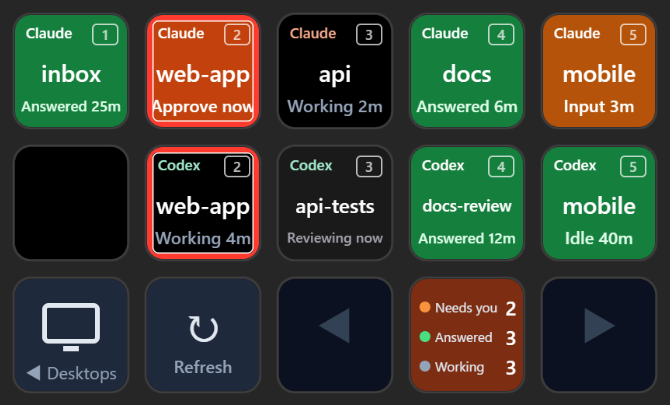
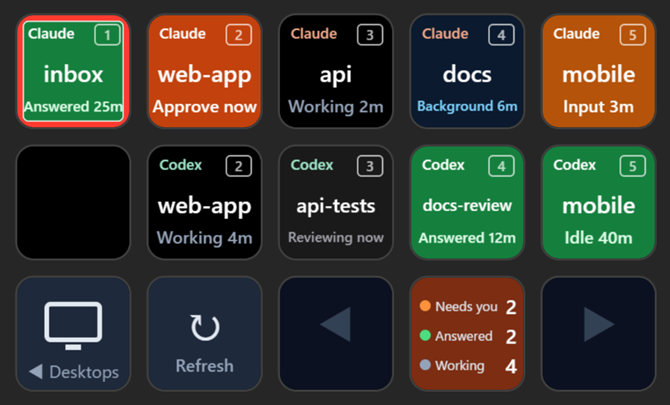
Claude Code のバックグラウンド処理中を「Background」として表示する
- Stop フックの background_tasks に処理が残っていれば、返答済みではなく Background（青みのある黒）にする
- agentj-hook は各処理の種類と状態だけを送り、コマンドや説明は送らない
- Background は Stalled? にせず、AI Refresh でも消さない。集計キーでは Working に数える
- 処理が終わって Claude Code が自分で始めたターンでは、最前面のウィンドウからデスクトップを記録しない
- デモの見本と README のスクリーンショット、README / internals.ja.md の状態の説明を更新する

diff --git a/src/agents/mod.rs b/src/agents/mod.rs
@@ -90,6 +90,9 @@ pub enum Tool {
 pub enum State {
 	Idle,
 	Working,
+	/// Claude Code: the turn is over, but background work it started (a
+	/// shell, a subagent, a monitor...) is still going and will wake it up.
+	Background,
 	/// Codex: an approval request is with the automatic reviewer. Nothing for
 	/// the user to do.
 	Reviewing,
@@ -109,7 +112,8 @@ impl State {
 			State::Done => 3,
 			State::Reviewing => 4,
 			State::Working => 5,
-			State::Idle => 6,
+			State::Background => 6,
+			State::Idle => 7,
 		}
 	}
 
@@ -403,8 +407,28 @@ struct Event {
 	source: Option<String>,
 	/// Hash of the tool call's input, added by agentj-hook.
 	call: Option<u64>,
+	/// Claude Code's Stop: the background tasks still in flight (type and
+	/// status only, see agentj-hook). None from Codex and older Claude Code.
+	background_tasks: Option<Vec<BackgroundTask>>,
 	#[serde(default)]
 	ts: u64,
+}
+
+#[derive(Default, Deserialize)]
+struct BackgroundTask {
+	#[serde(default, rename = "type")]
+	kind: String,
+	#[serde(default)]
+	status: String,
+}
+
+impl Event {
+	/// A turn ended with background work still to wake the session up.
+	/// Every task listed counts, whatever its status: Claude Code lists only
+	/// work in flight, and one that has just finished still wakes it to report.
+	fn waits_on_background(&self) -> bool {
+		self.background_tasks.as_ref().is_some_and(|tasks| !tasks.is_empty())
+	}
 }
 
 /// What an event says the session is doing, apart from approvals.
@@ -420,6 +444,7 @@ fn next_state(event: &Event) -> Option<State> {
 			Some("idle_prompt") => Some(State::Done),
 			_ => None,
 		},
+		"Stop" if event.waits_on_background() => Some(State::Background),
 		"Stop" => Some(State::Done),
 		"StopFailure" => Some(State::Error),
 		"Interrupt" => Some(State::Idle),
@@ -527,7 +552,9 @@ impl Tracker {
 		if event.hook_event_name == "UserPromptSubmit" {
 			session.prompted = true;
 			session.name_checked = 0; // a first prompt is when names usually appear
-			let busy = matches!(session.state, State::Working | State::Input) || !session.asks.is_empty();
+			// In Background, the prompt is most likely Claude Code waking the
+			// session up when its background work is done: nobody typed it.
+			let busy = matches!(session.state, State::Working | State::Input | State::Background) || !session.asks.is_empty();
 			let held = hook_waits_for_busy_session(tool) && busy && !session.is_stale(event.ts);
 			// The hook comes a moment after the prompt was sent (about 2 s for
 			// Codex), and the user may have clicked another window since, so
@@ -540,7 +567,7 @@ impl Tracker {
 			});
 			let label = session.label();
 			match (typed_in, recent.first()) {
-				(_, Some(front)) if held => log::info!("{tool:?} {label}: prompt held while busy, desktop of {:?} not used", front.title),
+				(_, Some(front)) if held => log::info!("{tool:?} {label}: prompt held while busy or sent by Claude Code itself, desktop of {:?} not used", front.title),
 				(Some((desktop, evidence, window)), _) => {
 					if !session.place(desktop, evidence) && session.desktop.as_deref() != Some(desktop) {
 						log::info!(
@@ -560,6 +587,10 @@ impl Tracker {
 		}
 
 		session.track_calls(&event);
+		if let Some(tasks) = event.background_tasks.as_ref().filter(|t| !t.is_empty()) {
+			let tasks: Vec<String> = tasks.iter().map(|t| format!("{} {}", t.kind, t.status)).collect();
+			log::info!("{tool:?} {}: turn over, background work going on: {tasks:?}", session.label());
+		}
 		if event.ts >= session.last {
 			session.last = event.ts;
 			if let Some(state) = next_state(&event)
@@ -674,7 +705,8 @@ impl Tracker {
 	) -> Vec<String> {
 		let closed = |s: &Session| {
 			let state = s.shown(now, codex_auto_review).0;
-			if s.ended.is_some() || state.needs_user() || state == State::Reviewing || (state == State::Working && !s.is_stale(now)) {
+			let at_work = matches!(state, State::Reviewing | State::Background) || (state == State::Working && !s.is_stale(now));
+			if s.ended.is_some() || state.needs_user() || at_work {
 				return false;
 			}
 			match s.tool {
@@ -1444,6 +1476,39 @@ mod tests {
 		assert!(t.sweep(2_000, false, &[], &[], Some(&[])).is_empty());
 		// working with no sign of life for long enough is fair game
 		assert_eq!(t.sweep(1_500 + STALE_MS + 1, false, &[], &[], Some(&[])).len(), 1);
+	}
+
+	fn stop_with(ts: u64, tasks: &[(&str, &str)]) -> Event {
+		let tasks = tasks.iter().map(|(kind, status)| BackgroundTask { kind: (*kind).to_owned(), status: (*status).to_owned() });
+		Event { background_tasks: Some(tasks.collect()), ..ev("Stop", ts) }
+	}
+
+	#[test]
+	fn a_turn_ending_with_background_work_going_on_is_background_until_it_wakes_up() {
+		let mut t = Tracker::default();
+		feed(&mut t, Tool::Claude, false, vec![ev("UserPromptSubmit", 10), stop_with(20, &[("shell", "running"), ("subagent", "running")])]);
+		assert_eq!(state(&t, Tool::Claude, 21, false), State::Background);
+		// the work is done: Claude Code wakes the session up for a turn of its own
+		// ... and nobody typed that prompt, so whatever is in front says nothing
+		t.apply(Tool::Claude, ev("UserPromptSubmit", 30), &[terminal("me@server: ~", "D5")], false);
+		assert_eq!(state(&t, Tool::Claude, 31, false), State::Working);
+		assert_eq!(t.sessions[&key(Tool::Claude, S)].desktop, None);
+		feed(&mut t, Tool::Claude, false, vec![stop_with(40, &[])]);
+		assert_eq!(state(&t, Tool::Claude, 41, false), State::Done);
+		// Codex and older Claude Code send no list: a plain answer
+		feed(&mut t, Tool::Claude, false, vec![ev("UserPromptSubmit", 50), ev("Stop", 60)]);
+		assert_eq!(state(&t, Tool::Claude, 61, false), State::Done);
+	}
+
+	#[test]
+	fn background_work_never_looks_stalled_and_refresh_keeps_it() {
+		let mut t = tracker(vec![named(Tool::Claude, "b", "Build", Some("D2"))]);
+		feed(&mut t, Tool::Claude, false, vec![Event { session_id: "b".to_owned(), ..stop_with(1_000, &[("shell", "running")]) }]);
+		let later = 1_000 + 2 * STALE_MS;
+		let view = t.views(later, false).into_iter().find(|v| v.label == "Build").unwrap();
+		assert_eq!((view.state, view.stale), (State::Background, false));
+		// no window shows it (e.g. it runs in a terminal), and still it stays
+		assert!(t.sweep(later, false, &[], &[], Some(&[])).is_empty());
 	}
 
 	#[test]

diff --git a/src/bin/agentj-hook.rs b/src/bin/agentj-hook.rs
@@ -7,7 +7,8 @@
 //! It keeps only the few fields the plugin needs, adds the time of the hook,
 //! and posts it to 127.0.0.1. Tool input is not forwarded, only a hash of it
 //! (`call`), which lets the plugin tell which tool call an approval request
-//! belongs to. It always exits 0 and prints nothing, so it can never block,
+//! belongs to. Of Claude Code's background tasks only the type and status of
+//! each are forwarded, not their commands or descriptions. It always exits 0 and prints nothing, so it can never block,
 //! slow down or change what the agent does, even when OpenDeck is not running.
 #![windows_subsystem = "windows"]
 
@@ -64,6 +65,15 @@ fn call_hash(event: &serde_json::Map<String, serde_json::Value>) -> Option<u64> 
 	Some(hash.max(1)) // 0 means "unknown" to the plugin
 }
 
+/// Claude Code's Stop: the background tasks still in flight, each cut down to
+/// its type and status. None when the event has no such list (other events,
+/// Codex, older Claude Code).
+fn background_tasks(event: &serde_json::Map<String, serde_json::Value>) -> Option<serde_json::Value> {
+	let tasks = event.get("background_tasks")?.as_array()?;
+	let keep = |task: &serde_json::Value, key: &str| task.get(key).filter(|v| v.is_string()).cloned().unwrap_or_default();
+	Some(tasks.iter().map(|t| serde_json::json!({ "type": keep(t, "type"), "status": keep(t, "status") })).collect())
+}
+
 fn main() {
 	// Never hang around, whatever happens with stdin or the socket.
 	std::thread::spawn(|| {
@@ -91,6 +101,9 @@ fn main() {
 	if let Some(call) = call_hash(&event) {
 		out.insert("call".to_owned(), call.into());
 	}
+	if let Some(tasks) = background_tasks(&event) {
+		out.insert("background_tasks".to_owned(), tasks);
+	}
 	let Ok(body) = serde_json::to_vec(&out) else { return };
 
 	let addr = SocketAddr::from(([127, 0, 0, 1], PORT));
@@ -109,11 +122,30 @@ fn main() {
 
 #[cfg(test)]
 mod tests {
-	use super::call_hash;
+	use super::{background_tasks, call_hash};
+
+	fn event(json: &str) -> serde_json::Map<String, serde_json::Value> {
+		let serde_json::Value::Object(event) = serde_json::from_str(json).unwrap() else { panic!("not an object") };
+		event
+	}
 
 	fn hash(json: &str) -> Option<u64> {
-		let serde_json::Value::Object(event) = serde_json::from_str(json).unwrap() else { panic!("not an object") };
-		call_hash(&event)
+		call_hash(&event(json))
+	}
+
+	#[test]
+	fn background_tasks_keep_only_their_type_and_status() {
+		let stop = event(
+			r#"{"hook_event_name":"Stop","background_tasks":[
+				{"id":"t1","type":"shell","status":"running","description":"build","command":"cargo build --secret"},
+				{"id":"t2","type":"subagent","status":"running","description":"look up docs","agent_type":"Explore"}]}"#,
+		);
+		assert_eq!(
+			background_tasks(&stop),
+			Some(serde_json::json!([{ "type": "shell", "status": "running" }, { "type": "subagent", "status": "running" }]))
+		);
+		assert_eq!(background_tasks(&event(r#"{"hook_event_name":"Stop","background_tasks":[]}"#)), Some(serde_json::json!([])));
+		assert_eq!(background_tasks(&event(r#"{"hook_event_name":"Stop"}"#)), None);
 	}
 
 	#[test]

diff --git a/src/agents/keys.rs b/src/agents/keys.rs
@@ -100,7 +100,7 @@ const SAMPLES: [(Tool, &str, State, usize, u64); 9] = [
 	(Tool::Codex, "web-app", State::Working, 1, 4 * MINUTE),
 	(Tool::Claude, "api", State::Working, 2, 2 * MINUTE),
 	(Tool::Codex, "api-tests", State::Reviewing, 2, 0),
-	(Tool::Claude, "docs", State::Done, 3, 6 * MINUTE),
+	(Tool::Claude, "docs", State::Background, 3, 6 * MINUTE),
 	(Tool::Codex, "docs-review", State::Done, 3, 12 * MINUTE),
 	(Tool::Claude, "mobile", State::Input, 4, 3 * MINUTE),
 	(Tool::Codex, "mobile", State::Idle, 4, 40 * MINUTE),
@@ -217,7 +217,7 @@ pub async fn draw(snap: &Snapshot) {
 		let count = |f: &dyn Fn(&View) -> bool| sessions.iter().filter(|(s, _)| f(s)).count();
 		let attention = count(&|s| s.state.needs_user());
 		let done = count(&|s| s.state == State::Done);
-		let working = count(&|s| matches!(s.state, State::Working | State::Reviewing) && !s.stale);
+		let working = count(&|s| matches!(s.state, State::Working | State::Background | State::Reviewing) && !s.stale);
 		for key in summary_keys {
 			let svg = if setup { render::settings_close() } else { render::summary(attention, done, working) };
 			send(&key, svg).await;

diff --git a/src/agents/render.rs b/src/agents/render.rs
@@ -39,6 +39,9 @@ pub fn agent(card: &AgentCard) -> String {
 			// so it stays dark.
 			State::Done => ("#15803D", "Answered", "#DCFCE7"),
 			State::Working => ("#000000", "Working", "#94A3B8"),
+			// The turn is over but work it started goes on: dark like
+			// Working, with a blue tint to tell the two apart.
+			State::Background => ("#0B1A2E", "Background", "#7DD3FC"),
 			State::Reviewing => ("#1A1A1A", "Reviewing", "#A1A1AA"),
 			// Green like Done: a session that is open and free to take a prompt.
 			// (A resumed session is Idle even if its last answer is unread.)
@@ -49,7 +52,7 @@ pub fn agent(card: &AgentCard) -> String {
 		Tool::Claude => ("Claude", "#F4A98A"),
 		Tool::Codex => ("Codex", "#9FE7C9"),
 	};
-	if !card.stale && !matches!(card.state, State::Working | State::Reviewing) {
+	if !card.stale && !matches!(card.state, State::Working | State::Background | State::Reviewing) {
 		// The tool colours do not read well on the strong state colours.
 		tool_colour = "#FFFFFF";
 	}

diff --git a/docs/internals.ja.md b/docs/internals.ja.md
@@ -96,12 +96,13 @@ AI Session キーは、キーの設定（`"tool": "claude"` / `"codex"`）で受
 | エラー | Error | 赤 |
 | 返答済み | Answered | 緑 |
 | 作業中 | Working | 黒（目立たせない） |
+| バックグラウンド処理中（Claude Code） | Background | 青みのある黒 |
 | 自動審査中 | Reviewing | 黒に近い灰 |
 | 待機中 | Idle | 緑 |
 | 15分音沙汰なしの作業中 | Stalled? | 灰 |
 
 状態のあとに経過時間（`now`、`5m`、`2h`、`3d`）を付ける。要対応（集計キーの「Needs you」）に数えるのは
-承認待ち・入力待ち・エラーだけ。
+承認待ち・入力待ち・エラーだけ。集計キーの「Working」には、作業中・自動審査中・バックグラウンド処理中を数える。
 
 ## フック
 
@@ -133,6 +134,13 @@ AI Session キーは、キーの設定（`"tool": "claude"` / `"codex"`）で受
   - Claude Code の「承認待ちのまま約6秒」の通知（`permission_prompt`）は、どの呼び出しのものか分からないので、
     バッチかターンの終わりまで残す
   「承認された」を知らせるフックはどちらにも無いので、承認後に長く動くツールは終わるまで承認待ちのままになる
+- バックグラウンド処理中（Claude Code だけ）: Claude Code の `Stop` は、まだ動いているバックグラウンドの作業
+  （シェル、サブエージェント、Monitor など）を `background_tasks` で渡す。agentj-hook はその種類と状態だけを
+  送り（コマンドや説明は送らない）、1つでもあればその `Stop` を返答済みではなく「Background」にする。作業が
+  終わると Claude Code は自分でターンを始め（`UserPromptSubmit` も来る）、作業中に戻る。このプロンプトは
+利用者が打ったものではないので、そのときの最前面のウィンドウからデスクトップを記録しない。待つ間はフックが来ないので
+  「Stalled?」にはせず、AI Refresh でも消さない。予約した処理（`session_crons`、`/loop` など）は何時間も
+  待つことがあるので数えない。この項目の無い古い Claude Code と Codex では、これまでどおり返答済みになる
 - Codex の自動審査（`~/.codex/config.toml` の `approvals_reviewer = "auto_review"` / `"guardian_subagent"`）
   では、承認要求は利用者ではなく審査役に回る。フックからは見分けられないので、この設定のときは
   「自動審査中」と表示して要対応に数えない。2分たっても解決しなければ承認待ちに切り替える（アプリが

diff --git a/README.ja.md b/README.ja.md
@@ -9,9 +9,11 @@ AI コーディングエージェントを同時にいくつも動かし、Windo
 作業する人に向けて作っています。
 
 - Claude Code / Codex のセッションごとに1つのキーを使い、名前、デスクトップ、状態（承認待ち・返答済み・作業中・
-  エラー、Claude Code ではさらに入力待ち（MCP のフォームやリンク））を表示します。Codex は質問してきたときに
+  エラー、Claude Code ではさらに入力待ち（MCP のフォームやリンク）とバックグラウンド処理中（ターンは終わったが、
+  始めたバックグラウンドのコマンドやサブエージェントがまだ動いている））を表示します。Codex は質問してきたときに
   イベントを送らないので、その間の Codex のセッションは作業中と表示されます。キーの表示は英語です（承認待ち
-  = Approve、返答済み = Answered、作業中 = Working、エラー = Error、入力待ち = Input）。
+  = Approve、返答済み = Answered、作業中 = Working、エラー = Error、入力待ち = Input、バックグラウンド処理中
+  = Background）。
 - セッションのキーを押すと、そのセッションのある仮想デスクトップへ切り替わります。
 - 集計キーは、対応が必要なセッションの数を表示し、押すといちばん待たせているセッションへ移動します。続けて押すと
   次のセッションへ進みます。

diff --git a/README.md b/README.md
@@ -8,7 +8,8 @@ AgentJ is a plugin for [OpenDeck](https://github.com/nekename/OpenDeck), the ope
 people who run several AI coding agents at once, one project per Windows 11 virtual desktop:
 
 - Every Claude Code / Codex session gets a key showing its name, its desktop and its state: waiting for your approval,
-  answered, working, error, and for Claude Code also waiting for input (an MCP form or link). Codex sends no event when
+  answered, working, error, and for Claude Code also waiting for input (an MCP form or link) and background (the turn
+is over, but a background command or subagent it started is still running). Codex sends no event when
   it asks you a question, so such a Codex session shows as working.
 - Press a session's key and Windows switches to the virtual desktop it runs on.
 - The summary key counts what needs you, and takes you to the session that has waited longest; press it again for the
